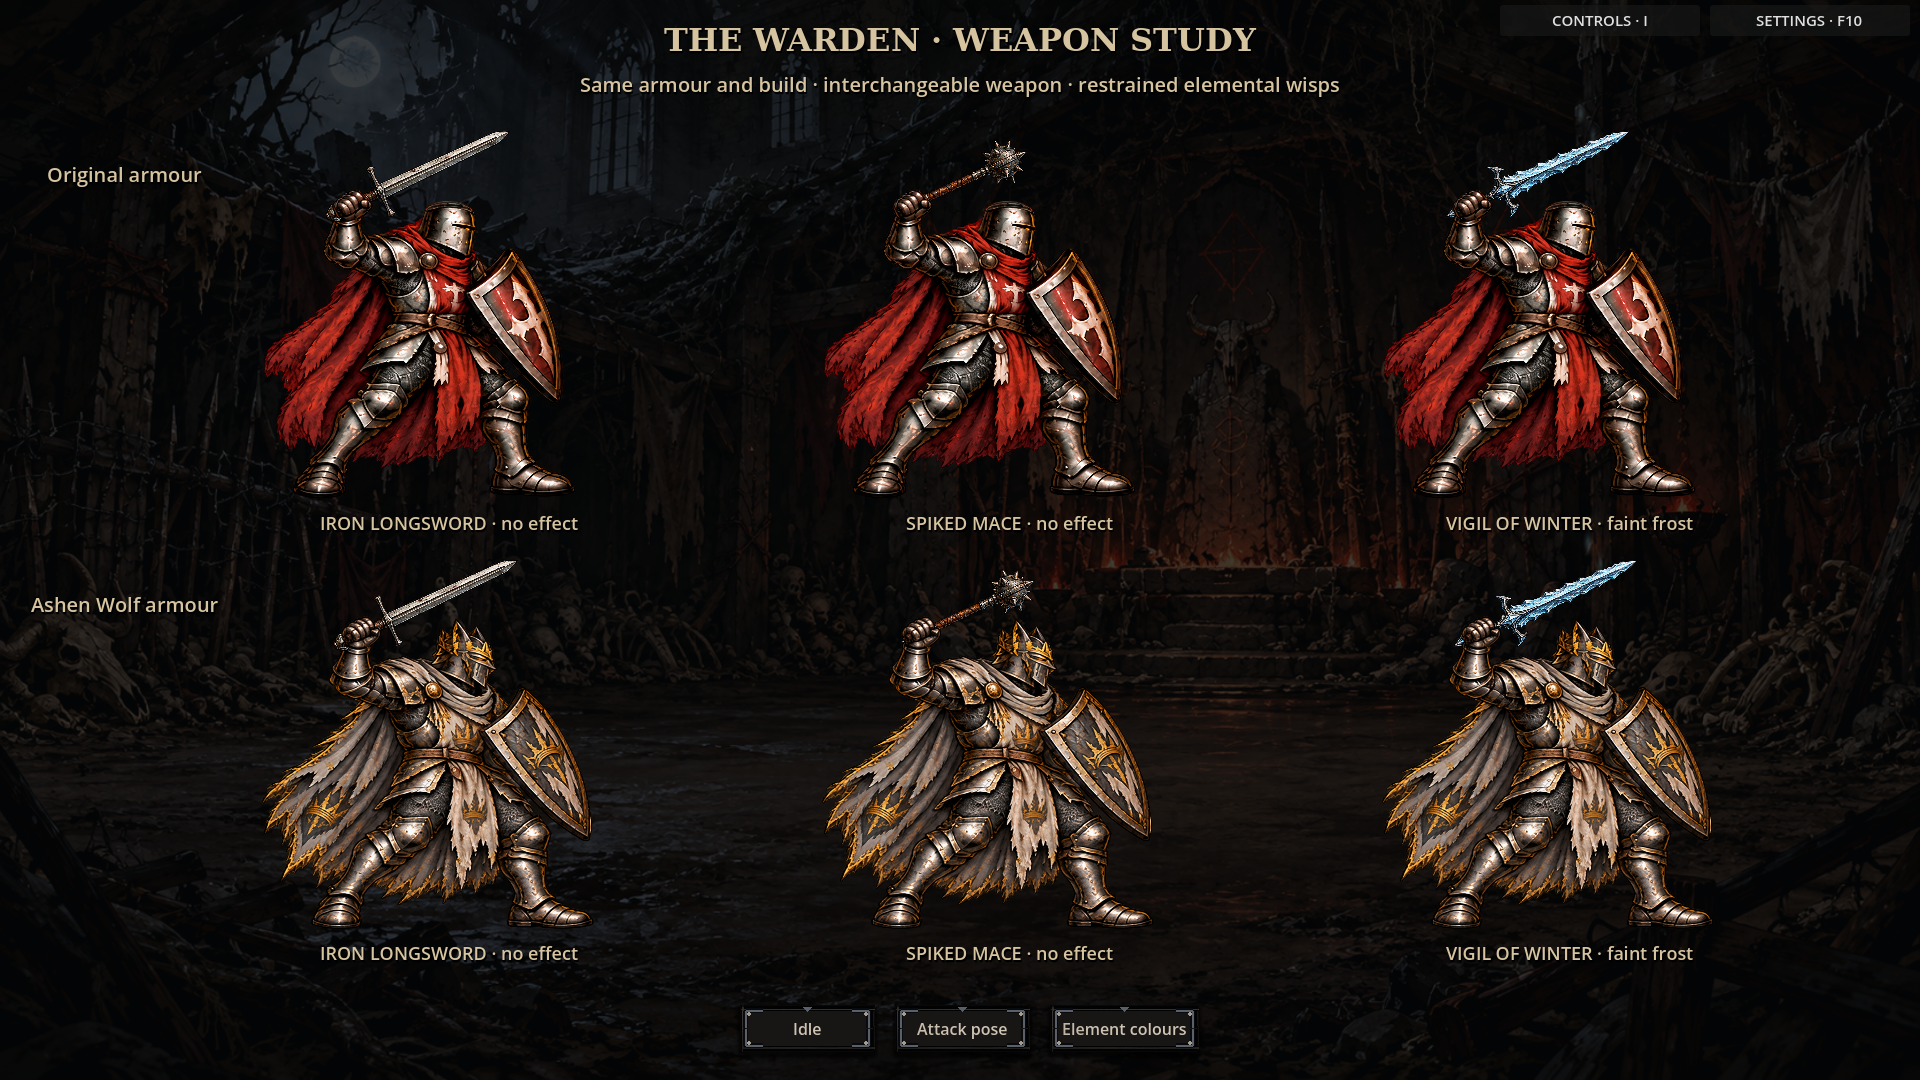
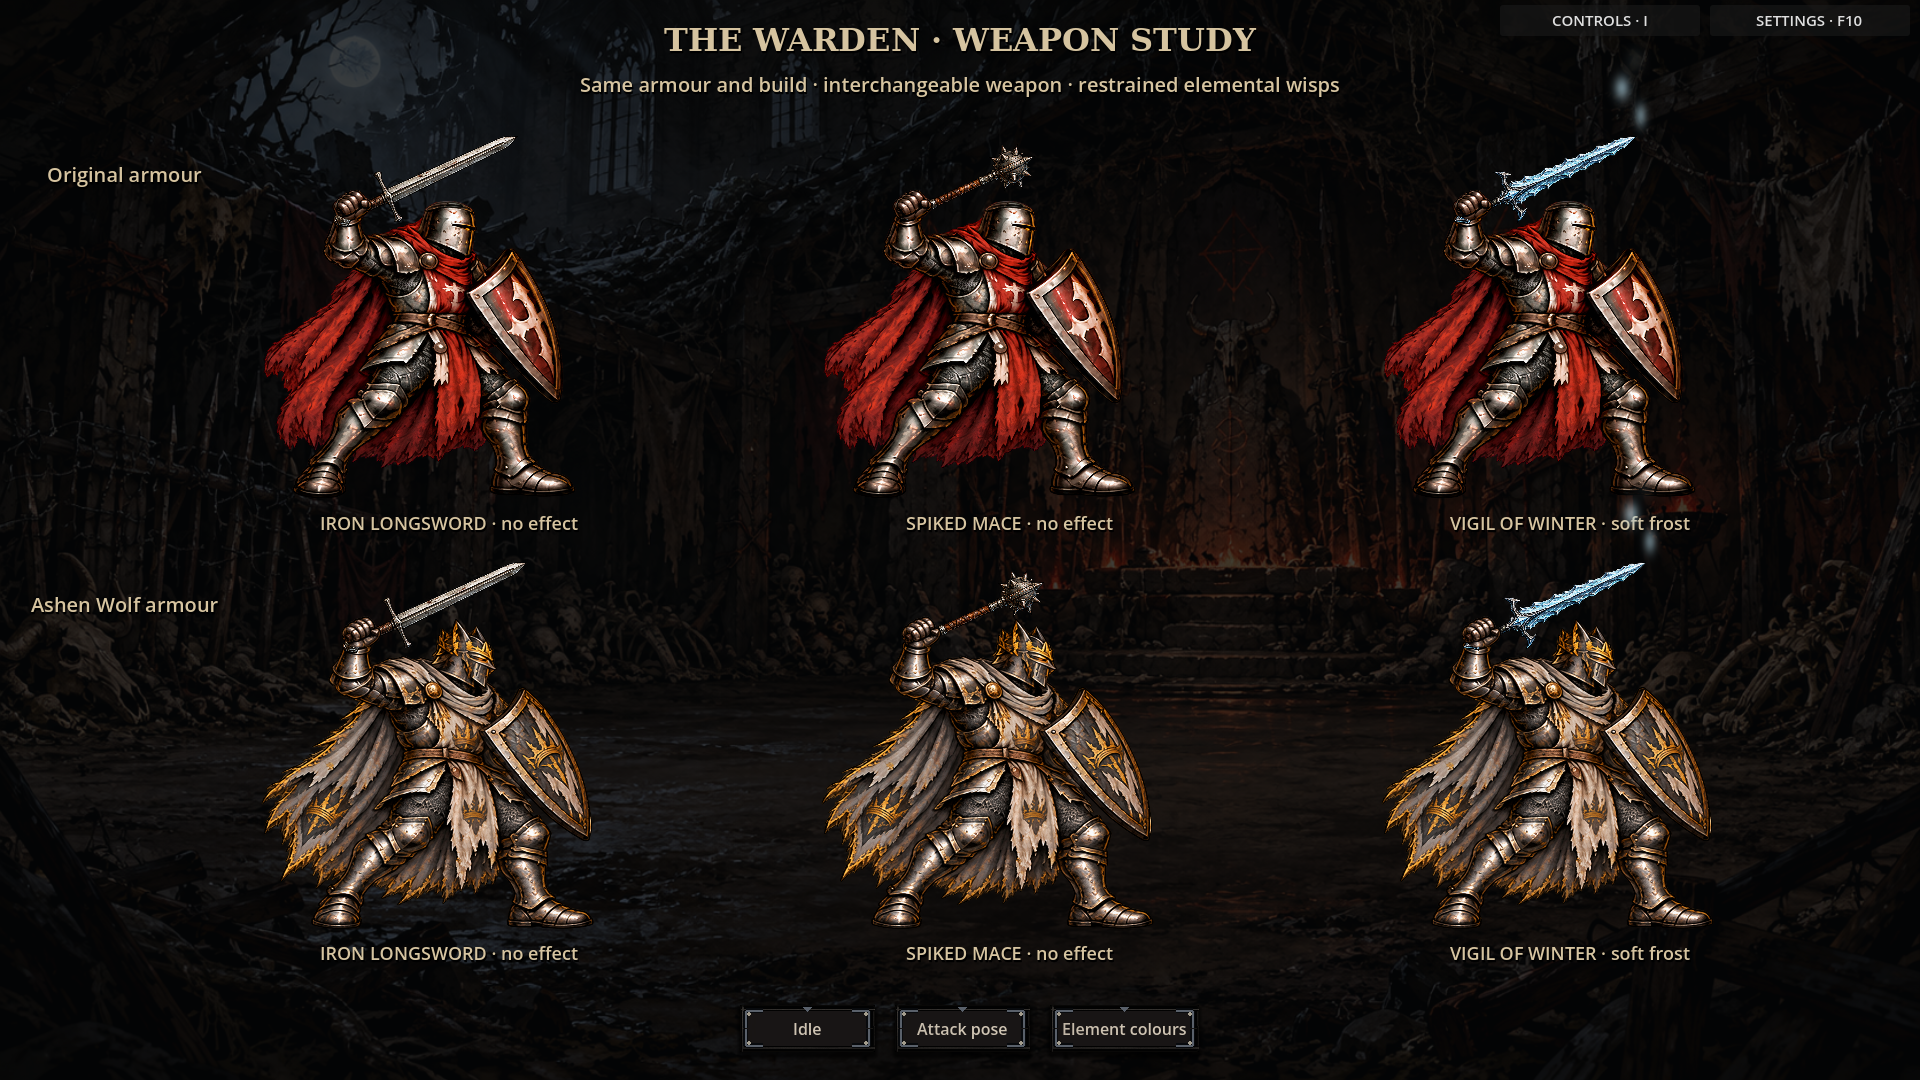
Attach Warden weapon handles and make elemental smoke readable

diff --git a/docs/weapon_preview/README.md b/docs/weapon_preview/README.md
@@ -7,6 +7,7 @@ The current game remains intact; this preview has not replaced live combat art.
 
 [![Idle weapon swaps](idle.png)](idle.png)
 [![Attack weapon swaps](attack.png)](attack.png)
+[![Gauntlet and handle close-up](grip-closeup.png)](grip-closeup.png)
 
 Both original and Ashen Wolf armour use a shared body per pose. The iron sword,
 spiked mace and frost blade attach independently at measured hand grips, with
@@ -20,9 +21,11 @@ have not yet been authored for this approach.
 ## Restrained elemental wisps
 
 [![Elemental colour samples](effects.png)](effects.png)
-[Watch the smoke animation](element-wisps.gif).
+[Watch the smoke animation](wisp-closeup.gif) · [Full-scene loop](element-wisps.gif).
 
-An intrinsic offensive weapon property produces a faint persistent wisp near its
+[![Elemental smoke close-up](wisp-closeup.png)](wisp-closeup.png)
+
+An intrinsic offensive weapon property produces a soft persistent wisp near its
 blade/head: muted crimson for Bleed, sickly green for Poison, ember orange for
 Burn, and pale blue for Chill. The existing Vigil of Winter demonstrates actual
 catalog resolution. Bleed/Poison/Burn panels are explicitly labelled colour
@@ -43,7 +46,20 @@ The standalone component is `experiments/warden_weapon_preview.tscn`.
 It reads equipped item data through `configure_equipped`; no game progression,
 save files, inventory or attack statistics are modified by the preview.
 
+The revised preview uses gauntlet-shaped foreground masks instead of rectangular
+patches, preventing surrounding armour from hiding the handle. Each pose has a
+measured grip inside the actual gauntlet. Wisps are wider and more visible than
+the first preview, while retaining soft edges and slow movement. The focused
+loop enlarges the actual effect without changing its shader strength.
+
 Validation: 93 Godot smoke checks, including body preservation during swaps,
 weapon silhouette changes, both attack grips, offensive-property filtering,
 unknown item fallback and freezing motion. Independent review found no Critical
-or Important issues. Captures were rendered in Godot.
+or Important issues. A native graphical check also compares smoke on/off against
+the dungeon for all four colours. Captures were rendered in Godot.
+
+Run the graphical check with a display available:
+
+```sh
+godot --path . --script res://tests/warden_weapon_wisps_visual.gd
+```
